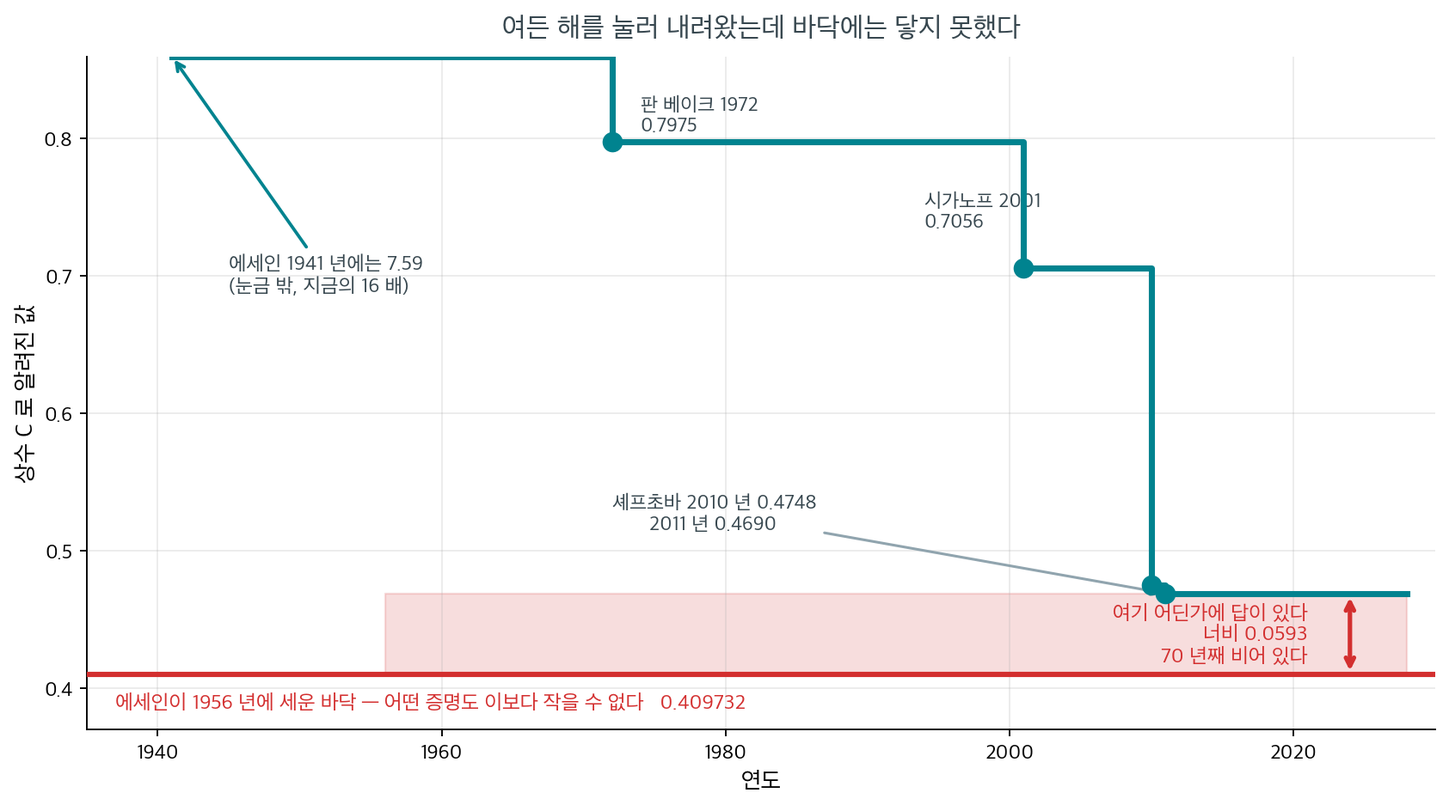
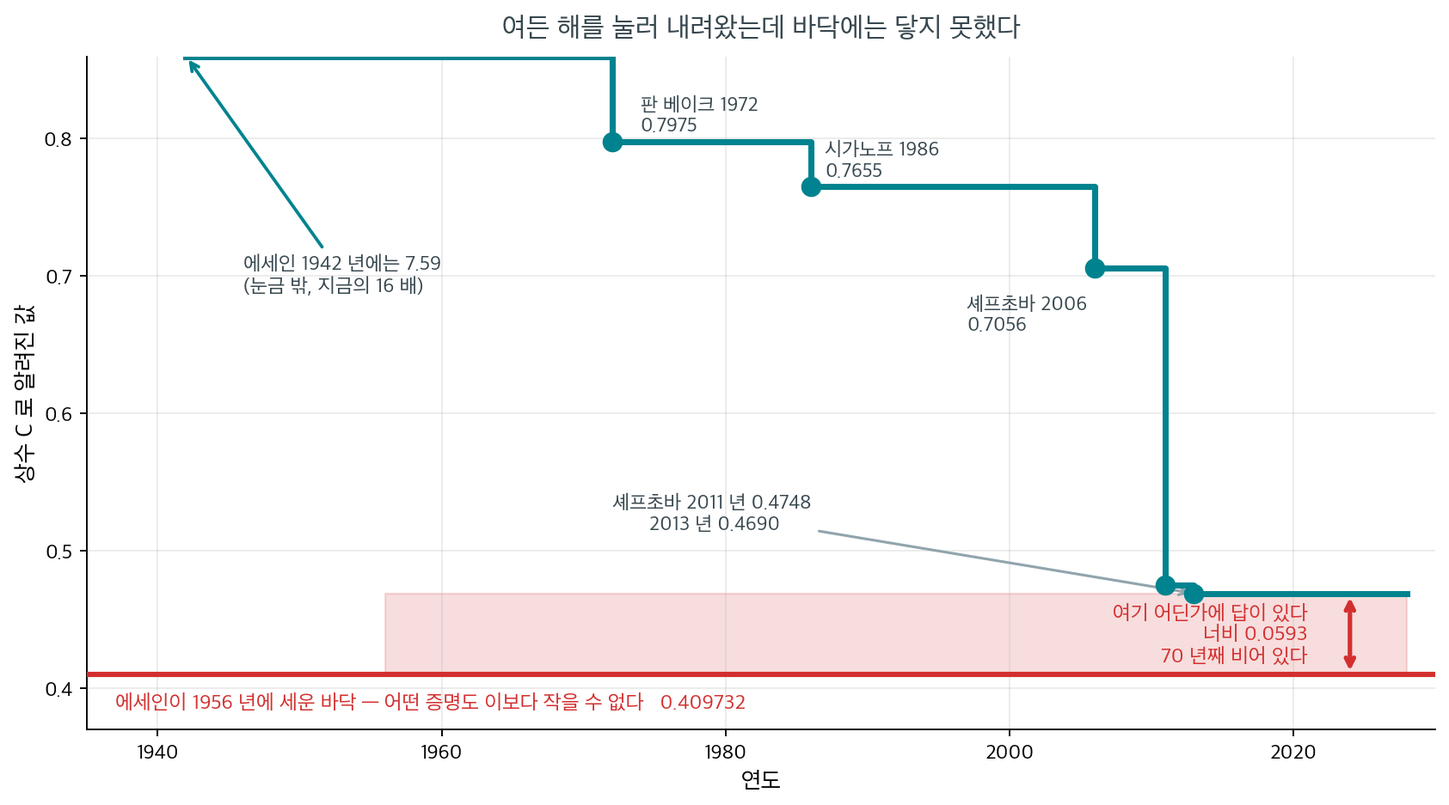
fix(ch03): 보고만 해 두었던 항목을 마무리한다
둘째 정독 패스가 고치지 않고 남긴 항목을 하나씩 판정해 끝냈다. 이미 닫힌 것과 보고가
틀린 것은 건드리지 않았고, 펜스를 고친 쪽은 실제로 돌린 출력을 붙여 verify_outputs 로
맞췄다. 그림을 다시 그린 것은 스크립트와 함께 담았다. 바깥 사실은 확인한 출처로만 고쳤다.

diff --git a/scripts/make_ch03_esseen_constant.py b/scripts/make_ch03_esseen_constant.py
@@ -6,9 +6,9 @@ r"""3.5절 「그림으로 보는 통계학」 — 닫히지 않는 틈.
 
 값은 이 책 본문(연습문제 9)의 표를 그대로 쓴다.
 
-  위에서 눌러 온 기록   1941 에세인 7.59 · 1972 판 베이크 0.7975
-                       2001 시가노프 0.7056 · 2010 셰프초바 0.4748
-                       2011 셰프초바 0.4690
+  위에서 눌러 온 기록   1942 에세인 7.59 · 1972 판 베이크 0.7975
+                       1986 시가노프 0.7655 · 2006 셰프초바 0.7056
+                       2011 셰프초바 0.4748 · 2013 셰프초바 0.4690
   아래에서 받친 바닥   1956 에세인 0.409732
 
 만드는 파일:
@@ -36,9 +36,9 @@ RED = "#D32F2F"
 TEAL = "#00838F"
 MUTED = "#90A4AE"
 
-UPPER = [(1941, 7.59, "에세인"), (1972, 0.7975, "판 베이크"),
-         (1901 + 100, 0.7056, "시가노프"), (2010, 0.4748, "셰프초바"),
-         (2011, 0.4690, "셰프초바")]
+UPPER = [(1942, 7.59, "에세인"), (1972, 0.7975, "판 베이크"),
+         (1986, 0.7655, "시가노프"), (2006, 0.7056, "셰프초바"),
+         (2011, 0.4748, "셰프초바"), (2013, 0.4690, "셰프초바")]
 LOWER = (np.sqrt(10) + 3) / (6 * np.sqrt(2 * np.pi))
 NOW = 2026
 
@@ -69,10 +69,12 @@ def main():
 
     ax.annotate("판 베이크 1972\n0.7975", xy=(1972, 0.7975),
                 xytext=(1974, 0.805), fontsize=9.8, color=INK)
-    ax.annotate("시가노프 2001\n0.7056", xy=(2001, 0.7056),
-                xytext=(1994, 0.735), fontsize=9.8, color=INK)
-    ax.annotate("셰프초바 2010 년 0.4748\n       2011 년 0.4690",
-                xy=(2011, 0.4690), xytext=(1972, 0.515),
+    ax.annotate("시가노프 1986\n0.7655", xy=(1986, 0.7655),
+                xytext=(1987, 0.772), fontsize=9.8, color=INK)
+    ax.annotate("셰프초바 2006\n0.7056", xy=(2006, 0.7056),
+                xytext=(1997, 0.66), fontsize=9.8, color=INK)
+    ax.annotate("셰프초바 2011 년 0.4748\n       2013 년 0.4690",
+                xy=(2013, 0.4690), xytext=(1972, 0.515),
                 fontsize=9.8, color=INK,
                 arrowprops=dict(arrowstyle="->", color=MUTED, lw=1.3))
 

diff --git a/docs/ch03/limits/berry_esseen.md b/docs/ch03/limits/berry_esseen.md
@@ -28,7 +28,7 @@ $$
 \sup_{x \in \mathbb{R}} \big|F_n(x) - \mathcal N(x)\big| \;\le\; \frac{C\,\rho}{\sigma^3 \sqrt n}
 $$
 
-이다. 여기서 $C$는 보편 상수다. 동일분포 가정 아래 알려진 가장 작은 값은 $C \le 0.4690$(셰프초바, 2011)이며, 이 페이지의 계산에는 널리 인용되는 $C = 0.4748$을 쓴다. 상수의 역사와 하한은 연습문제 9에 정리해 두었다.
+이다. 여기서 $C$는 보편 상수다. 동일분포 가정 아래 알려진 가장 작은 값은 $C \le 0.4690$(셰프초바, 2013)이며, 이 페이지의 계산에는 널리 인용되는 $C = 0.4748$을 쓴다. 상수의 역사와 하한은 연습문제 9에 정리해 두었다.
 
 </div>
 
@@ -84,12 +84,12 @@ $$
 **그 정리가 얼마나 좋아질 수 있는지의 한계까지** 손수 적어 둔 셈이다.
 
 <figure markdown>
-  ![1941년 7.59에서 시작해 1972년 0.7975, 2001년 0.7056, 2010년 0.4748, 2011년 0.4690으로 내려오는 계단 그림. 아래에 0.409732 선이 붉게 그어져 있고 그 사이 띠가 비어 있다](./img/esseen_constant_gap.png){ width=920 }
+  ![1942년 7.59에서 시작해 1972년 0.7975, 1986년 0.7655, 2006년 0.7056, 2011년 0.4748, 2013년 0.4690으로 내려오는 계단 그림. 아래에 0.409732 선이 붉게 그어져 있고 그 사이 띠가 비어 있다](./img/esseen_constant_gap.png){ width=920 }
   <figcaption markdown>위에서 눌러 내려온 기록(청록 계단)과 아래에서 받치는 바닥(붉은 선). 둘 사이 $0.0593$ 너비의 띠에 참값이 있는데, **$1956$ 년 이후 아무도 그 안으로 들어가지 못했다.** 값은 본문 연습문제 $9$ 의 표를 그대로 옮겨 그린 것이다.</figcaption>
 </figure>
 
 $0.4690$ 과 $0.409732$ 사이. 그 틈의 너비가 $0.06$ 이 채 되지 않는다. 지난 $70$ 년 동안
-여러 사람이 천장을 조금씩 끌어내렸지만 — $0.7975$, $0.7056$, $0.4748$, $0.4690$ —
+여러 사람이 천장을 조금씩 끌어내렸지만 — $0.7975$, $0.7655$, $0.7056$, $0.4748$, $0.4690$ —
 바닥에는 끝내 닿지 못했다.
 
 **이 이야기가 정리 1 을 읽는 법을 바꾼다.** 상한이 느슨해 보일 때, $C$ 를 모르는 데서
@@ -101,7 +101,7 @@ $n$ 을 얼마로 잡을지 정하는 데 쓰고, 실제 오차를 가늠하는 
 
 여든 해가 지나도록 수 하나를 못 박지 못한 채로, 이 부등식은 오늘도 쓰인다.
 
-*확인한 곳 — 상한의 역사와 하한은 이 쪽 연습문제 $9$ 에 정리해 둔 표를 그대로 따랐다 · 하한 $(\sqrt{10}+3)/(6\sqrt{2\pi}) = 0.409732\ldots$ 는 에세인($1956$)의 것이고, 틈의 너비 $0.4690 - 0.409732 = 0.0593$ 은 이 쪽에서 직접 셈했다*
+*확인한 곳 — 상한의 역사(에세인 $1942$ 의 $7.59$ · 판 베이크 $1972$ · 시가노프 $1986$ · 셰프초바 $2006$·$2011$·$2013$)는 위키백과 「Berry–Esseen theorem」과 optimizationproblems 목록(teorth.github.io)의 「The Berry–Esseen constant」(Shevtsova 2013, *Informatika i Ee Primeneniya*)으로 맞추었고, 연습문제 $9$ 의 표도 그것을 따른다 · 하한 $(\sqrt{10}+3)/(6\sqrt{2\pi}) = 0.409732\ldots$ 는 에세인($1956$)의 것이고, 틈의 너비 $0.4690 - 0.409732 = 0.0593$ 은 이 쪽에서 직접 셈했다*
 
 </div>
 
@@ -238,10 +238,10 @@ $\rho/\sigma^3$은 왜도(skewness)의 사촌이다. 왜도가 $E[(X-\mu)^3]/\si
     이다. 이 함수와 표준정규 누적분포함수 $\Phi$(정리 1 의 $\mathcal N$ 과 같은 것이다)의 차를 $x$에 대해 최대화하면 되고, 그 최댓값이 어디쯤일지는 **에지워스 전개**가 알려 준다. 첫 보정항까지 쓰면
 
     $$
-    F_n(x) \approx \Phi(x) - \frac{\gamma}{6\sqrt n}\,(x^2 - 1)\,\varphi(x)
+    F_n(x) \approx \Phi(x) - \frac{\gamma}{6\sqrt n}\,(x^2 - 1)\,\phi(x)
     $$
 
-    이다. 여기서 $\varphi$ 는 표준정규분포의 밀도함수이고(증명 개요의 특성함수와 글자만 같다) $\gamma$ 는 모집단의 왜도로, $\text{Exp}(1)$에서는 $\gamma = 2$다. $|(x^2-1)\varphi(x)|$는 $x = 0$에서 $\varphi(0) = 0.398942$로 최대다($x = \pm\sqrt3$에서는 $2\varphi(\sqrt3) = 0.178$에 지나지 않는다). 따라서
+    이다. 여기서 $\phi$ 는 표준정규분포의 밀도함수이고(증명 개요의 특성함수 $\varphi$ 와는 다른 글자다) $\gamma$ 는 모집단의 왜도로, $\text{Exp}(1)$에서는 $\gamma = 2$다. $|(x^2-1)\phi(x)|$는 $x = 0$에서 $\phi(0) = 0.398942$로 최대다($x = \pm\sqrt3$에서는 $2\phi(\sqrt3) = 0.178$에 지나지 않는다). 따라서
 
     $$
     \sup_x |F_n(x) - \Phi(x)| \approx \frac{2}{6}\cdot\frac{0.398942}{\sqrt n} = \frac{0.132981}{\sqrt n}
@@ -733,6 +733,8 @@ $\mu = 1$, $\sigma = 1$, $\rho = E[|X-1|^3] = 12e^{-1} - 2 \approx 2.4146$인 Ex
     | $100$ | $0.0398$ | $0.000273$ | $146$배 |
     | $10\,000$ | $0.00399$ | $0.0000027$ | $1469$배 |
 
+    마지막 행의 $0.0000027$ 은 출력이 여섯째 자리에서 반올림해 $0.000003$ 으로 찍은 값을 개선 배수 $1469.2$ 로 되짚은 것이다($0.003989/1469.2$).
+
     보정 없이는 $O(n^{-1/2})$인데, **보정 후에는 $O(n^{-1})$이다**($n$이 $1000$배 늘 때 오차가 $1000$배 줄었다). 개선 배수가 $\sqrt n$에 비례해 커지는 것이 그 증거다.
 
     **치우친 경우는 다르다.** $p=0.1$에서 개선이 **$4.8$배로 고정**된다. 차수는 여전히 $O(n^{-1/2})$다.
@@ -829,11 +831,12 @@ $\mu = 1$, $\sigma = 1$, $\rho = E[|X-1|^3] = 12e^{-1} - 2 \approx 2.4146$인 Ex
 
     | 연도 | 저자 | $C$ |
     |---|---|---|
-    | $1941$ | 에세인 | $7.59$ |
+    | $1942$ | 에세인 | $7.59$ |
     | $1972$ | 판 베이크 | $0.7975$ |
-    | $2001$ | 시가노프 | $0.7056$ |
-    | $2010$ | 셰프초바 | $0.4748$ |
-    | $2011$ | 셰프초바 | $0.4690$ |
+    | $1986$ | 시가노프 | $0.7655$ |
+    | $2006$ | 셰프초바 | $0.7056$ |
+    | $2011$ | 셰프초바 | $0.4748$ |
+    | $2013$ | 셰프초바 | $0.4690$ |
 
     **하한.** 에세인(1956)이 $C$를 아래로도 가둘 수 있음을 보였다.
 

diff --git a/docs/ch03/probability/axioms.md b/docs/ch03/probability/axioms.md
@@ -374,7 +374,7 @@ $$
 
 이 곱을 전개하면 교대합이 저절로 나온다 — $(1-x_1)(1-x_2)\cdots(1-x_n)$ 을 펼친 것이 곧 포함배제의 우변이고, 한 원소가 조건 $m$ 개에 걸리면 그 자리에서 $(1-1)^m=0$ 이 되어 사라진다. 정리 1 의 증명이 부호를 번갈아 붙인 까닭을 한 줄로 적은 셈이다.
 
-그런데 그는 **같은 해에 병으로 휴직**했고, 책의 뒷장들을 끝내 손보지 못한 채 $1868$ 년 퇴직했다. 글은 포르투갈어로 리스본에서만 나왔으므로 아무도 읽지 않았고, $1883$ 년 실베스터가 같은 식을 다시 내놓을 때도 그 책을 몰랐다. 반세기가 지나 이탈리아의 알라지아가 **거의 우연히** 그 논문을 발견해 $1903$ 년부터 세 편의 글로 알린 뒤에야 다 실바의 차례가 첫째였다는 것이 알려졌다.
+그런데 그는 **발표한 그해 $1852$ 년 말에 병으로 휴직**했고, 책의 뒷장들을 끝내 손보지 못한 채 $1868$ 년 퇴직했다. 글은 포르투갈어로 리스본에서만 나왔으므로 아무도 읽지 않았고, $1883$ 년 실베스터가 같은 식을 다시 내놓을 때도 그 책을 몰랐다. 반세기가 지나 이탈리아의 알라지아가 **거의 우연히** 그 논문을 발견해 $1903$ 년부터 세 편의 글로 알린 뒤에야 다 실바의 차례가 첫째였다는 것이 알려졌다.
 
 이름이 늦게 돌아온 일은 흔하다. 다만 여기서는 **적은 꼴까지 그가 더 앞서 있었다** — 조건을 떼어 내는 일을 곱으로 적는 생각은, 오늘날 포함배제를 가장 짧게 증명하는 방법 그대로다.
 
@@ -874,7 +874,7 @@ $$
     **왜 이것이 중요한가.**
 
     - **큰수의 강법칙 증명의 핵심 도구다.** "거의 확실한 수렴"을 다루려면 무한히 많은 사건의 극한을 확률로 계산해야 하는데, 그것이 정확히 측도의 연속성이 하는 일이다.
-    - **유한 가법성만으로는 불가능하다.** 연습문제 7의 답이 여기서 구체화된다. $\{A_n \text{ i.o.}\}$는 가산 무한 번의 합집합과 교집합으로 만들어지므로, 가산가법성이 없으면 이 사건에 확률을 부여할 수조차 없다.
+    - **유한 가법성만으로는 불가능하다.** 연습문제 7의 답이 여기서 구체화된다. $\{A_n \text{ i.o.}\}$는 가산 무한 번의 합집합과 교집합으로 만들어지므로, 가산가법성이 없으면 이 사건의 확률을 $P(A_n)$ 들로부터 계산할 길이 없다.
     - **두 보조정리의 비대칭.** 제$1$은 독립을 요구하지 않지만 제$2$는 요구한다. 독립이 없으면 $\sum P(A_n) = \infty$여도 $P(A_n \text{ i.o.})$가 $1$보다 작을 수 있고(모든 $A_n$이 확률 $\tfrac12$인 같은 사건이면 $\tfrac12$), $0$일 수도 있다($[0,1]$의 균등분포에서 $A_n = (0, 1/n)$이면 $\sum 1/n = \infty$인데, 점 $x > 0$은 $n < 1/x$인 유한개의 $A_n$에만 속하므로 $\{A_n \text{ i.o.}\} = \emptyset$이다). $\square$
 
 ---
@@ -1031,7 +1031,7 @@ $$
 
     $\mathcal{F}$가 만족해야 할 조건은 공리 자체가 요구하는 것들이다. 여집합 규칙을 쓰려면 $A \in \mathcal{F} \Rightarrow A^c \in \mathcal{F}$여야 하고, 가산가법성을 쓰려면 가산 합집합에 대해 닫혀 있어야 한다. **$\sigma$-대수의 정의가 곧 "공리를 적용할 수 있는 집합족"의 정의다.**
 
-    **실무에서 걱정할 일은 거의 없다.** 실수 위에서는 **보렐 $\sigma$-대수**(구간들로부터 생성되는 최소 $\sigma$-대수)를 쓰는데, 여기에는 상상할 수 있는 거의 모든 집합이 들어 있다. 비탈리 집합처럼 선택공리로만 만들어지는 병리적 집합만 빠진다.
+    **실무에서 걱정할 일은 거의 없다.** 실수 위에서는 **보렐 $\sigma$-대수**(구간들로부터 생성되는 최소 $\sigma$-대수)를 쓰는데, 여기에는 상상할 수 있는 거의 모든 집합이 들어 있다. 빠지는 것은 일부러 지어내야 만들어지는 집합들이고, 측도를 아예 줄 수 없는 비탈리 집합이 그 극단이다.
 
     **그럼에도 $\mathcal{F}$가 중요한 이유가 따로 있다.** 확률변수의 정의(가측함수), 조건부기댓값, 여과(filtration)와 마팅게일 이론이 모두 "**어느 시점에 어떤 정보를 알고 있는가**"를 $\sigma$-대수로 표현한다. $\mathcal{F}$는 병리적 집합을 막는 장치이기 전에 **정보를 형식화하는 언어**다. $\square$
 
@@ -1047,4 +1047,4 @@ $$
 
 공리가 이렇게 인색한 데는 이유가 있다. 규칙이 적을수록 그것을 만족하는 대상이 많아지고, 따라서 결론이 널리 적용된다. 주사위든 주가든 내일의 날씨든, 세 줄만 지키면 이 책의 나머지 전부가 그대로 적용된다.
 
-이제 규칙은 갖췄다. 다음 절부터는 이 규칙 위에서 실제로 계산을 시작한다. 첫 번째 도구는 **조건부확률**(conditional probability) — 무언가를 알게 되었을 때 확률이 어떻게 달라지는가이다.
+이제 규칙은 갖췄다. 다음 절부터는 이 규칙 위에서 실제로 계산을 시작한다. 첫 번째 도구는 **[조건부확률](conditional.md)**(conditional probability) — 무언가를 알게 되었을 때 확률이 어떻게 달라지는가이다.

diff --git a/docs/ch03/probability/independence.md b/docs/ch03/probability/independence.md
@@ -64,7 +64,7 @@ $$
 
     이므로 두 조건이 동등하다. 곱 형태는 $P(B) = 0$일 때도 양변이 모두 $0$이 되어 자동으로 성립하므로, $P(B) > 0$이라는 단서 없이 쓸 수 있다. 이 때문에 곱 형태를 정의로 채택한다. $\square$
 
-곱 형태에는 세 가지 이점이 있다. **대칭적이고**($A$와 $B$의 역할이 같다), **$P(B) = 0$일 때도 쓸 수 있으며**, 무엇보다 **계산이 곱셈이 된다**. $n$개의 독립인 사건이 모두 일어날 확률은 $n$개의 수를 곱하면 끝이다.
+곱 형태에는 세 가지 이점이 있다. **대칭적이고**($A$와 $B$의 역할이 같다), **$P(B) = 0$일 때도 쓸 수 있으며**, 무엇보다 **계산이 곱셈이 된다**. $n$개의 사건이 서로 독립이면(뒤의 정의 2) 모두 일어날 확률은 $n$개의 수를 곱하면 끝이다.
 
 이 마지막 점이 왜 중요한지는 곧 드러난다. 큰수의 법칙도 중심극한정리(central limit theorem)도 "독립인 관측을 $n$개 모으면"이라는 전제 위에 서 있다.
 
@@ -219,8 +219,8 @@ _확인한 곳 — 사진의 쪽 번호 $19$ 와 $22$, 첫째 실험의 설정, 
 
 **AI로 보는 통계학 1.** 장치를 늘릴수록 더 자주 멈추는 까닭
 
-정의 1 의 곱 $P(A_1\cap\cdots\cap A_n)=\prod P(A_i)$ — 정의 2 가 모든 부분집합으로 넓힌 그
-식 — 은 **모두 살아 있어야 할 때**의 확률이다. 큰 모형을 여러 장치에 나누어 학습시키는
+정의 1 의 곱을 $n$ 개로 넓힌 $P(A_1\cap\cdots\cap A_n)=\prod P(A_i)$ — 뒤의 정의 2 가 모든
+부분집합에 요구하는 그 식 — 은 **모두 살아 있어야 할 때**의 확률이다. 큰 모형을 여러 장치에 나누어 학습시키는
 일이 바로 그 꼴이다 — 한 걸음을 끝내려면 참여한 장치가 **하나도 빠짐없이** 제 몫을
 끝내야 하므로, 그룹 전체는 **직렬 연결**이다.
 
@@ -228,7 +228,7 @@ _확인한 곳 — 사진의 쪽 번호 $19$ 와 $22$, 첫째 실험의 설정, 
 
 ```python
 def series(q, n):
-    """직렬 — n 대가 모두 멀쩡할 확률. 정의 1 의 곱 규칙."""
+    """직렬 — n 대가 모두 멀쩡할 확률. 곱 규칙을 n 개로 넓힌 것."""
     return q ** n
 
 def parallel(q, k):
@@ -474,7 +474,7 @@ _확인한 곳 — 사진의 쪽 번호 $89$, 러닝헤드, 절 제목 「$5.2.8
 
     **맞는다.** 차이가 $+0.000028$로 표준오차의 $0.05$배다. 곱 규칙이 20만 번의 자료가 가려낼 수 있는 한계 안에서 성립한다.
 
-    **다만 넷째 자리까지 같게 나온 것은 운이 좋았던 것이다.** 차이의 표준오차가 $0.00056$이므로 넷째 자리 한 단위($0.0001$)의 다섯 배가 넘고, 보통은 $0.2505$ 대 $0.2499$처럼 넷째 자리에서 갈린다. 실제로 씨앗만 바꿔 같은 모의실험을 돌리면 차이가 $-0.00036$, $+0.00044$, $+0.00079$처럼 나온다. **"소수 몇째 자리까지 같다"는 것은 독립의 증거가 아니고, 몇째 자리까지 같아야 하는지를 정해 주는 것이 (1)의 표준오차다.**
+    **다만 넷째 자리까지 같게 나온 것은 운이 좋았던 것이다.** 차이의 표준오차가 $0.00056$이므로 넷째 자리 한 단위($0.0001$)의 다섯 배가 넘고, 보통은 $0.2505$ 대 $0.2499$처럼 넷째 자리에서 갈린다. 실제로 씨앗만 바꿔 같은 모의실험을 돌리면 차이가 $-0.00036$, $+0.00044$, $+0.00079$처럼 나온다(`np.random.seed` 를 $1$, $3$, $7$ 로 바꾼 값이다). **"소수 몇째 자리까지 같다"는 것은 독립의 증거가 아니고, 몇째 자리까지 같아야 하는지를 정해 주는 것이 (1)의 표준오차다.**
 
     두 변의 추정값이 각각 $0.4996$과 $0.5013$으로 $0.5$에서 $-0.4$, $+1.2$ 표준오차만큼 비껴나 있는 것도 같은 이야기다. 모의실험은 참값을 보여 주지 않고 참값 둘레의 난수를 보여 준다.
 
@@ -840,7 +840,7 @@ _확인한 곳 — 사진의 쪽 번호 $89$, 러닝헤드, 절 제목 「$5.2.8
     - **금융 위기의 구조.** 개별 대출의 부도 확률이 낮아도 상관되어 있으면 포트폴리오 손실이 폭발한다. $2008$년 이전의 모형들이 **부도 상관을 낮게 잡은 것**이 핵심 실패였다.
     - **역학과 전파.** 개인의 감염 확률을 곱해 집단 확률을 구하면 크게 빗나간다. 접촉 구조가 독립을 깨뜨린다.
 
-    **일반 원리.** 독립 가정은 계산을 극적으로 단순하게 만들지만(정의 1 의 곱 규칙 하나로 $n$개의 수만 곱하면 끝난다), **틀렸을 때의 오차가 꼬리에서 가장 크다.** 평균적인 결과는 비슷해도 "모두 함께 잘못될 확률"은 몇 자릿수씩 어긋난다. 그리고 위험관리에서 중요한 것은 정확히 그 꼬리다. $\square$
+    **일반 원리.** 독립 가정은 계산을 극적으로 단순하게 만들지만(정의 2 의 곱 규칙 하나로 $n$개의 수만 곱하면 끝난다), **틀렸을 때의 오차가 꼬리에서 가장 크다.** 평균적인 결과는 비슷해도 "모두 함께 잘못될 확률"은 몇 자릿수씩 어긋난다. 그리고 위험관리에서 중요한 것은 정확히 그 꼬리다. $\square$
 
 ---
 

diff --git a/docs/ch03/rv/joint.md b/docs/ch03/rv/joint.md
@@ -138,7 +138,7 @@ $$
 
 정리 1 이 결합분포에서 한 변수만의 분포를 뽑아낸 것을 **주변분포**라 부른다. 이 이름은 비유가 아니다. 두 항목으로 표를 짜고 행 끝과 열 끝, 곧 표의 **가장자리**에 합을 적어 넣던 자리에서 그대로 온 말이다.
 
-그 가장자리를 전기로 세기 시작한 것이 사진의 기계다. $1880$ 년 미국 인구조사는 집계에만 팔 년이 걸렸다. 열 해마다 해야 하는 일인데 팔 년이 걸렸으니 곧 따라잡힐 참이었다. 홀러리스는 차장이 기차표에 구멍을 뚫어 승객의 성별과 나이를 적어 두는 것을 보고 카드를 떠올렸다. 사람마다 카드 한 장을 두고 항목마다 자리를 정해 구멍을 뚫는다. 카드를 수은 웅덩이 위에 올려놓고 철사를 누르면 **구멍이 뚫린 자리에서만** 전기가 통하고, 그 회로에 붙은 계수기의 바늘이 한 칸 돈다. $1890$ 년에는 카드 한 억 장을 네 번만 통과시켜 집계를 끝냈다.
+그 가장자리를 전기로 세기 시작한 것이 사진의 기계다. $1880$ 년 미국 인구조사는 집계에만 팔 년이 걸렸다. 열 해마다 해야 하는 일인데 팔 년이 걸렸으니 곧 따라잡힐 참이었다. 홀러리스는 차장이 기차표에 구멍을 뚫어 승객의 성별과 나이를 적어 두는 것을 보고 카드를 떠올렸다. 사람마다 카드 한 장을 두고 항목마다 자리를 정해 구멍을 뚫는다. 카드를 수은 웅덩이 위에 올려놓고 철사를 누르면 **구멍이 뚫린 자리에서만** 전기가 통하고, 그 회로에 붙은 계수기의 바늘이 한 칸 돈다. $1890$ 년에는 카드 약 $1$ 억 장을 네 번만 통과시켜 집계를 끝냈다.
 
 여기서부터가 정의 1 과 정리 1 의 이야기다. 계수기 하나를 **구멍 하나**에 연결하면 그 항목 하나의 도수가 쌓인다 — 주변분포다. 계수기를 **구멍의 조합**에 연결하면(이를테면 「기혼」 구멍과 「여성」 구멍이 함께 뚫린 카드) 정의 1 의 결합분포에서 한 칸이 된다. 그리고 기계가 가진 계수기는 마흔 개뿐이었다.
 
@@ -148,7 +148,7 @@ $$
 
 통계기계가 이 물음과 함께 태어났다는 것도 적어 둘 만하다. 홀러리스가 세운 회사가 뒷날 합병을 거쳐 IBM 이 된다. **무엇을 셀 것인가를 미리 정해야 한다**는 제약은 계수기가 마흔 개이던 시절의 것이지만, 어느 조합을 기록해 두고 어느 조합을 버릴지 고르는 일은 지금도 자료를 모으는 사람의 첫 결정이다.
 
-_확인한 곳 — 판화의 「ELECTRICAL COUNTING MACHINES」, 잡지 이름, 계수기 눈금판과 카드 더미는 **그림에서 직접 읽었다**([Commons 파일 쪽](https://commons.wikimedia.org/wiki/File:1890_Census_Hollerith_Electrical_Counting_Machines_Sci_Amer.jpg) — 『사이언티픽 아메리칸』 $1890$ 년 $8$ 월 $30$ 일자) · $1880$ 년 조사가 팔 년 걸린 것, 기차표에서 얻은 착상, 수은 웅덩이와 철사로 회로를 닫는 방식, **계수기 마흔 개**와 「계수기를 구멍 하나에 붙이거나 relay 로 구멍의 조합에 붙일 수 있었다」, 카드 한 억 장을 네 번 통과시킨 것, 그리고 그의 회사가 뒷날 IBM 이 되었다는 것은 [Wikipedia 「Tabulating machine」](https://en.wikipedia.org/wiki/Tabulating_machine) · $a+b$ 와 $ab$ 의 비교는 **이 쪽에서 직접 꾸몄다**_
+_확인한 곳 — 판화의 「ELECTRICAL COUNTING MACHINES」, 잡지 이름, 계수기 눈금판과 카드 더미는 **그림에서 직접 읽었다**([Commons 파일 쪽](https://commons.wikimedia.org/wiki/File:1890_Census_Hollerith_Electrical_Counting_Machines_Sci_Amer.jpg) — 『사이언티픽 아메리칸』 $1890$ 년 $8$ 월 $30$ 일자) · $1880$ 년 조사가 팔 년 걸린 것, 기차표에서 얻은 착상, 수은 웅덩이와 철사로 회로를 닫는 방식, **계수기 마흔 개**와 「계수기를 구멍 하나에 붙이거나 relay 로 구멍의 조합에 붙일 수 있었다」, 카드 약 $1$ 억 장(「Some 100 million cards」)을 네 번 통과시킨 것, 그리고 그의 회사가 뒷날 IBM 이 되었다는 것은 [Wikipedia 「Tabulating machine」](https://en.wikipedia.org/wiki/Tabulating_machine) · $a+b$ 와 $ab$ 의 비교는 **이 쪽에서 직접 꾸몄다**_
 
 </div>
 

diff --git a/docs/ch03/probability/bayes.md b/docs/ch03/probability/bayes.md
@@ -81,9 +81,9 @@ $$
 
 정리 1 의 증명이 맨 먼저 쓰는 그 식이다.
 
-여기까지가 이 글에 적힌 전부라는 점도 알아 둘 만하다. 분자를 $P(A)P(B\mid A)$ 로 바꾸는 한 걸음은 두 쪽 앞 명제 3 의 따름정리에 따로 적혀 있고, 원인이 여럿일 때 분모를 $\sum P(A_i)P(B\mid A_i)$ 로 펼친 정리 2 의 꼴은 없다. 그 꼴은 열한 해 뒤 **라플라스**가 「사건으로부터 원인의 확률에 관하여」($1774$)에서 원인이 $n$ 개인 경우로 적은 것이고, 사전확률을 곱해 주는 마지막 손질은 다시 그 뒤의 일이다. 베이즈의 몫은 식이 아니라 **방향을 뒤집어도 좋다**는 것을 보인 데 있다.
+여기까지가 이 글에 적힌 전부라는 점도 알아 둘 만하다. 분자를 $P(A)P(B\mid A)$ 로 바꾸는 한 걸음은 두 쪽 앞 명제 3(두 사건이 함께 일어날 확률은 첫째의 확률과 첫째가 일어났을 때 둘째의 확률을 곱한 것이다)에 따로 적혀 있고, 원인이 여럿일 때 분모를 $\sum P(A_i)P(B\mid A_i)$ 로 펼친 정리 2 의 꼴은 없다. 그 꼴은 열한 해 뒤 **라플라스**가 「사건으로부터 원인의 확률에 관하여」($1774$)에서 원인이 $n$ 개인 경우로 적은 것이고, 사전확률을 곱해 주는 마지막 손질은 다시 그 뒤의 일이다. 베이즈의 몫은 식이 아니라 **방향을 뒤집어도 좋다**는 것을 보인 데 있다.
 
-*확인한 곳 — [Wikipedia 「An Essay Towards Solving a Problem in the Doctrine of Chances」](https://en.wikipedia.org/wiki/An_Essay_Towards_Solving_a_Problem_in_the_Doctrine_of_Chances) · [원문 PDF](https://bayes.wustl.edu/Manual/an.essay.pdf) — 명제 5 의 $b/N$, $P/N$, $P/b$ 가 그대로 적혀 있다*
+*확인한 곳 — [Wikipedia 「An Essay Towards Solving a Problem in the Doctrine of Chances」](https://en.wikipedia.org/wiki/An_Essay_Towards_Solving_a_Problem_in_the_Doctrine_of_Chances) · [원문 PDF](https://bayes.wustl.edu/Manual/an.essay.pdf) — 명제 5 의 $b/N$, $P/N$, $P/b$ 와 명제 3 의 곱셈 규칙이 그대로 적혀 있다*
 
 </div>
 
@@ -653,7 +653,7 @@ _확인한 곳 — [Wikipedia 「Hartley (unit)」](https://en.wikipedia.org/wik
     ```python
     import numpy as np
 
-    p0, p1 = 0.5, 0.7                                # 공정한 동전 vs 치우친 동전
+    p0, p1 = 0.5, 0.7                                # 공정한 동전 vs 편향된 동전
 
     def log_bf(k, n):
         return k * np.log(p1 / p0) + (n - k) * np.log((1 - p1) / (1 - p0))
@@ -833,7 +833,7 @@ _확인한 곳 — [Wikipedia 「Hartley (unit)」](https://en.wikipedia.org/wik
 
     **현실에서는 대개 독립이 아니다.** 거짓양성의 원인이 그 사람의 생리적 특성이라면($1$차에서 거짓양성이던 사람은 $2$차에서도 거짓양성이기 쉽다), 조건부 특이도가 훨씬 낮아진다. 표에서 보듯 조건부 특이도가 $0.5$면 사후확률이 $0.038$에 그쳐 **재검사가 거의 아무 정보도 주지 않는다.**
 
-    **그래서 실무에서는 다른 원리의 검사를 쓴다.** HIV 검사에서 스크리닝은 항체 기반, 확진은 핵산 기반으로 하는 것이 그 이유다. **같은 검사를 반복하는 것보다 독립적인 오류 구조를 가진 검사를 쓰는 것이 훨씬 낫다.**
+    **그래서 실무에서는 다른 원리의 검사를 쓴다.** HIV 검사에서 항원·항체 면역분석으로 선별한 뒤 양성을 다른 방식의 검사(HIV-1/HIV-2 항체 감별 검사, 결과가 엇갈리면 핵산 검사)로 확인하는 것이 그 이유다. **같은 검사를 반복하는 것보다 독립적인 오류 구조를 가진 검사를 쓰는 것이 훨씬 낫다.**
 
     **PPV와 NPV의 비대칭도 눈여겨보라.** PPV(양성예측도)는 양성일 때 실제로 병이 있을 확률 $P(D \mid +)$, NPV(음성예측도)는 음성일 때 실제로 병이 없을 확률 $P(D^c \mid -)$ 다. 유병률 $0.001$에서 PPV는 $0.019$로 형편없지만 NPV는 $0.99999$로 거의 완벽하다. **희귀질환 검사에서 음성 결과는 매우 믿을 만하고 양성 결과는 그렇지 않다.** 스크리닝 검사의 목적이 "배제"인 이유가 여기 있다. $\square$
 

diff --git a/docs/ch03/rv/continuous.md b/docs/ch03/rv/continuous.md
@@ -78,7 +78,7 @@ Z = np.trapz(np.exp(-score(xs)), xs)        # 정의 1 의 성질 (2) 가 요구
 print(f"1 차원에서의 상수 Z = {Z:.6f}")
 print(f"같은 촘촘함의 격자를 10 차원에 깔면 점이 {201**10:.3e} 개 — 더할 수 없다")
 
-print(f"그런데 두 점의 확률의 비에는 Z 가 없다:  f(0.5)/f(1.5) = "
+print(f"그런데 두 점의 밀도의 비에는 Z 가 없다:  f(0.5)/f(1.5) = "
       f"{np.exp(-(score(0.5) - score(1.5))):.6f}")
 
 rng = np.random.default_rng(0)                  # 비만 써서 표본을 모은다
@@ -101,7 +101,7 @@ for a, b in [(-2.0, -1.0), (-1.0, 0.0), (0.0, 1.0), (1.0, 2.0)]:
 ```text
 1 차원에서의 상수 Z = 2.719881
 같은 촘촘함의 격자를 10 차원에 깔면 점이 1.076e+23 개 — 더할 수 없다
-그런데 두 점의 확률의 비에는 Z 가 없다:  f(0.5)/f(1.5) = 2.295797
+그런데 두 점의 밀도의 비에는 Z 가 없다:  f(0.5)/f(1.5) = 2.295797
 구간         표본의 비율    참값(상수를 아는 경우)
 [-2.0, -1.0)      0.1700           0.1701
 [-1.0,  0.0)      0.3136           0.3136
@@ -354,7 +354,7 @@ il faut et il suffit que l'ensemble de ses points de discontinuité soit de mesu
     # ppf(0.1)은 "아래쪽 10%의 경계"를 돌려준다. CDF의 역함수다.
     # 즉 P(X <= max_wait) = 0.1 이 되는 지점이다.
     max_wait = stats.norm(loc=mu, scale=sigma).ppf(0.1)
-    print(f"Maximum average wait time: {max_wait:.2f} seconds")
+    print(f"Maximum wait time: {max_wait:.2f} seconds")
 
     # 시각화: 평균에서 좌우 3 표준편차 구간을 그린다
     x = np.linspace(mu - 3*sigma, mu + 3*sigma, 200)
@@ -377,7 +377,7 @@ il faut et il suffit que l'ensemble de ses points de discontinuité soit de mesu
     출력:
 
     ```
-    Maximum average wait time: 170.90 seconds
+    Maximum wait time: 170.90 seconds
     ```
 
 ![연속확률변수](./img/continuous_72.png)
@@ -674,7 +674,7 @@ $0 \le x \le 2$에서 $f(x) = c x^2$이고 그 밖에서는 0이다. (a) $c$를 
 
     **첫째, 밀도가 $y \to 0^+$에서 발산한다.** $1/\sqrt{y}$ 항 때문이다. **밀도는 $1$을 넘을 수 있고 무한대로 갈 수도 있다.** 확률이 아니라 밀도이기 때문이며, 적분만 유한하면 된다.
 
-    **둘째, 이 변환이 카이제곱분포의 정의다.** 표준정규의 제곱합(sum of squares)이 카이제곱이고, 그것이 표본분산(sample variance)의 분포로 이어진다(부록 A 선형대수 문서에서 본 이차형식). **변환 공식 하나가 통계 이론 전체의 출발점**인 셈이다.
+    **둘째, 이 변환이 카이제곱분포의 정의다.** 표준정규의 제곱합(sum of squares)이 카이제곱이고, 그것이 표본분산(sample variance)의 분포로 이어진다(그 이차형식의 이야기는 부록 A.4절 [카이제곱분포와 이차형식](../../ch00/linalg_regression/linalg_statistics/chi_squared_quadratic.md)에 있다). **변환 공식 하나가 통계 이론 전체의 출발점**인 셈이다.
 
     **주의할 경우.**
 
@@ -841,7 +841,7 @@ $0 \le x \le 2$에서 $f(x) = c x^2$이고 그 밖에서는 0이다. (a) $c$를 
 
     **둘째 줄이 특히 중요하다.** 3장 뒤에서 볼 중심극한정리는 **유한 분산**을 요구한다. 그것이 없으면 표본평균이 정규가 아니라 **안정분포**로 수렴하며, 표준적인 추론이 모두 무효가 된다.
 
-    **어디서 마주치는가.** 소득, 도시 인구, 지진 규모, 보험 대형 손실, 금융 수익률의 꼬리가 $\alpha = 1.5$–$3$ 범위로 추정되는 경우가 많다. **$\alpha < 2$이면 "평균 손실"을 논하는 것 자체가 위험하다.**
+    **어디서 마주치는가.** 소득, 도시 인구, 보험 대형 손실, 금융 수익률의 꼬리가 $\alpha = 1.5$–$3$ 범위로 추정되는 경우가 많다. **$\alpha < 2$이면 "평균 손실"을 논하는 것 자체가 위험하다.**
 
     **진단.** 표본평균을 $n$에 따라 그려 보아 안정되지 않으면 적률의 존재를 의심해야 한다. 2.3절 [왜도와 첨도](../../ch02/shape/skewness_kurtosis.md) 연습문제 8의 로버스트 측도가 이런 상황을 위한 것이다. $\square$
 

diff --git a/docs/ch03/rv/pmf_pdf_cdf.md b/docs/ch03/rv/pmf_pdf_cdf.md
@@ -743,7 +743,7 @@ $$
 
     읽어도 되는 것은 **두 곡선 각각의 모양**이다. 히스토그램에서는 중심이 어디쯤이고 꼬리가 어느 쪽으로 긴지를, 계단에서는 누적이 어디서 빨리 오르는지를 본다. 그리고 보기 1 에서 본 관계 — 히스토그램이 높은 곳에서 계단이 가파르다 — 가 눈으로 확인된다.
 
-    읽으면 안 되는 것은 **두 곡선의 높이를 서로 견주는 일**이다. 히스토그램 막대가 $0.56$ 이고 계단이 그 자리에서 $0.5$ 라고 해서 둘이 비슷한 양이라는 뜻이 전혀 아니다. 막대 높이는 구간 폭 $0.267$ 을 곱해야 확률이 되므로 그 칸의 확률은 $0.56 \times 0.267 = 0.15$ 다. 또 하나, 히스토그램의 최고 높이 $0.5618$ 이 이론 최댓값 $\varphi(0) = 0.3989$ 보다 크다고 놀랄 일이 아니다. **$200$ 개를 $20$ 칸에 나누면 칸마다 평균 $10$ 개뿐이라 높이가 크게 튄다.**
+    읽으면 안 되는 것은 **두 곡선의 높이를 서로 견주는 일**이다. 히스토그램 막대가 $0.56$ 이고 계단이 그 칸의 왼쪽 반에서 $0.51$ 이라고 해서 둘이 비슷한 양이라는 뜻이 전혀 아니다. 막대 높이는 구간 폭 $0.267$ 을 곱해야 확률이 되므로 그 칸의 확률은 $0.56 \times 0.267 = 0.15$ 다. 또 하나, 히스토그램의 최고 높이 $0.5618$ 이 이론 최댓값 $\varphi(0) = 0.3989$ 보다 크다고 놀랄 일이 아니다. **$200$ 개를 $20$ 칸에 나누면 칸마다 평균 $10$ 개뿐이라 높이가 크게 튄다.**
 
     **(2) 계단을 그리는 방식 때문이다.** `np.cumsum(counts) / np.sum(counts)` 가 주는 $i$ 번째 값은 "$i$ 번째 구간의 **오른쪽 끝**까지 쌓인 비율" 이므로, 그 값을 `bin_edges[1:]`(오른쪽 끝들)에 짝지은 것까지는 정확하다. 문제는 `where='mid'` 다. 이 설정은 계단의 모서리를 **이웃한 두 $x$ 의 중간**에 놓으므로, 값이 오른쪽 끝이 아니라 그보다 **반 칸 왼쪽**에서 이미 올라가 버린다.
 
@@ -831,7 +831,7 @@ $$
 
     누적값이 참 경험적 분포함수와 네 자리까지 같다($0.0900$, $0.5100$, $0.9200$, $1.0000$). 이론값과도 $0.0994$, $0.5200$, $0.9170$, $0.9967$ 로 가깝다. 두 분포함수의 최대 거리는 $D = 0.065$ 이고 $n = 200$ 에서 5% 임계값 $1.36/\sqrt{200} = 0.0962$ 보다 작아($p = 0.35$) **표본이 $N(0,1)$ 에서 나왔다는 데 아무 이상이 없다.**
 
-    그림에서 읽을 것을 정리하면 이렇다. 붉은 곡선과 주황 계단이 전 구간에서 가까이 붙어 있고, 계단이 붉은 곡선보다 **조금씩 위로** 지나간다. 그 체계적인 쏠림이 (2) 의 반 칸 불일치이지 표본의 성질이 아니다. 히스토그램 쪽은 $0$ 근처가 가장 높고 양 끝으로 갈수록 낮아지지만, $1.4$ 와 $1.7$ 근처에 같은 높이의 막대가 둘 나란히 서는 등 곳곳이 울퉁불퉁하다. **$200$ 개로는 밀도의 모양을 이 정도까지밖에 볼 수 없다.**
+    그림에서 읽을 것을 정리하면 이렇다. 붉은 곡선과 주황 계단이 전 구간에서 가까이 붙어 있고, 계단이 붉은 곡선보다 **조금씩 위로** 지나간다. 그 체계적인 쏠림이 (2) 의 반 칸 불일치이지 표본의 성질이 아니다. 히스토그램 쪽은 $0$ 근처가 가장 높고 양 끝으로 갈수록 낮아지지만, $1$ 언저리와 $1.5$ 언저리의 막대가 같은 높이($0.17$)인데 그 사이 막대는 절반에도 못 미치는($0.07$) 등 곳곳이 울퉁불퉁하다. **$200$ 개로는 밀도의 모양을 이 정도까지밖에 볼 수 없다.**
 
     마지막으로 이 그림이 **보여 주지 않는 것**이 있다. 분포함수는 구간 폭을 고르지 않아도 그릴 수 있는데(관측값마다 $1/n$ 씩 올리면 된다) 여기서는 히스토그램의 칸을 그대로 물려받아 $20$ 계단으로 거칠어졌다. 참 경험적 분포함수는 $200$ 계단이다. **밀도 추정은 칸 나누기가 필요하지만 분포함수 추정은 필요하지 않다**는 차이가 이 그림에서는 가려져 있다.
 

diff --git a/docs/ch03/limits/clt.md b/docs/ch03/limits/clt.md
@@ -720,7 +720,7 @@ $n/N$이 작으면 수정계수가 1에 가까워 무시할 수 있다.
 **독립이 깨지는 더 흔한 경우는 시계열이다.** 자기상관이 강한 자료에서는 관측 $n$개가 독립인 $n$개만큼의 정보를 주지 못한다. **유효 표본크기**가 $n$보다 작아지므로 표준오차가 $\sigma/\sqrt n$보다 크고, 정규근사도 그만큼 늦게 도착한다. 이 보정은 5.3절 [표준오차](../../ch05/applications/standard_error.md), 10.5절 [관측의 독립성 확인](../../ch10/assumptions/independence.md), 13.6절 [독립성](../../ch13/assumptions/checking_independence.md)에서 다룬다.
 
 !!! warning "$n \ge 30$을 규칙으로 믿지 말 것"
-    왜도가 심하면 $n = 30$은 턱없이 부족하다. 왜도가 2인 지수분포에서 95% 신뢰구간의 실제 포함확률은 $n = 30$에서 $0.927$이고 $n = 100$에서도 $0.939$에 그친다. 8.2절 [μ의 신뢰구간](../../ch08/one_sample_intervals/ci_mu.md) 연습문제 20·22 가 이런 포함률을 지수·로그정규 모집단에서 잰다.
+    왜도가 심하면 $n = 30$은 턱없이 부족하다. 왜도가 2인 지수분포에서 95% $t$ 신뢰구간의 실제 포함확률은 $n = 30$에서 $0.927$이고 $n = 100$에서도 $0.942$에 그친다(모의실험 $40$ 만 번으로 잰 값이다). 8.2절 [μ의 신뢰구간](../../ch08/one_sample_intervals/ci_mu.md) 연습문제 20 이 같은 포함률을 지수 모집단의 $n = 10$ 에서, 연습문제 22 가 로그정규 모집단에서 잰다.
 
     반대로 모집단이 이미 정규분포라면 $n = 1$에서도 표본평균이 **정확히** 정규분포다. 근사가 아니라 등식이다.
 
@@ -1561,13 +1561,13 @@ $\sqrt n(\bar X_n-\mu)\xrightarrow{d}N(0,\sigma^2)$이라고 해서 그 **분산
 
     **꼬리가 두꺼운 경우의 행동:** $\alpha < 2$인 **안정분포** $S_\alpha(\sigma, \beta)$의 흡인 영역에 있는 분포는 거듭제곱 법칙 꼬리 $P(|X| > x) \sim x^{-\alpha}$를 갖는다. $\alpha \le 2$이면 분산이 무한하고 $\alpha \le 1$이면 평균이 무한하다.
 
-    **알파–안정 중심극한정리:** 꼬리 지수가 $0 < \alpha \le 2$인 i.i.d. $X_i$에 대해 정규화된 합
+    **알파–안정 중심극한정리:** 꼬리 지수가 $0 < \alpha < 2$인 i.i.d. $X_i$에 대해 정규화된 합
 
     $$
     \frac{S_n - n a_n}{n^{1/\alpha}} \xrightarrow{d} S_\alpha(\sigma, \beta)
     $$
 
-    이 $\alpha$-안정분포로 수렴한다. 정규화가 $\sqrt n$이 아니라 $n^{1/\alpha}$임에 주목하라. $\alpha = 2$이면 가우시안 중심극한정리가 복원되고, $\alpha = 1$이면 코시 극한을 얻으며, $\alpha < 1$이면 평균조차 수렴하지 않는다.
+    이 $\alpha$-안정분포로 수렴한다(엄밀하게는 $n^{1/\alpha}$ 에 천천히 변하는 인수가 곱해질 수 있다). 정규화가 $\sqrt n$이 아니라 $n^{1/\alpha}$임에 주목하라. 분산이 유한하면 $\alpha = 2$ 의 자리, 곧 가우시안 중심극한정리로 돌아가고, $\alpha = 1$이면 코시 극한을 얻으며, $\alpha < 1$이면 평균조차 수렴하지 않는다.
 
     **실무적 함의:** 일별 주식 수익률의 꼬리 지수는 흔히 $\alpha \approx 3$으로 보고된다(이른바 역세제곱 법칙 — 꼬리는 두껍지만 $\alpha > 2$라 분산이 유한하므로 가우시안 중심극한정리가 느리게나마 적용된다). 네트워크 패킷 크기, 파일 크기, 대기 지연은 흔히 $\alpha < 2$여서(진짜로 꼬리가 두꺼워서) 가우시안 기반 신뢰구간이 타당하지 않다. 알맞은 도구는 두꺼운 꼬리를 고려하는 것들이다. 조심스러운 부트스트랩, 분위수 추정량, 알파–안정 모형 등이다.
 

diff --git a/docs/ch03/rv/independence_vs_zero_corr.md b/docs/ch03/rv/independence_vs_zero_corr.md
@@ -793,9 +793,9 @@ $$
     print(f"  참값 (1-Phi(1))^2 = {exact:.6f},  SE = {se:.6f},"
           f"  (관측 - 참값)/SE = {(p_joint - exact) / se:+.3f}")
 
-    # rho = 0.8 이면 곱셈 규칙이 깨진다. 임계값을 0 으로 두면 닫힌 꼴이 나온다.
+    # rho = 0.8 이면 곱셈 규칙이 깨진다. 절단값을 0 으로 두면 닫힌 꼴이 나온다.
     #   P(X>0, Y>0) = 1/4 + arcsin(rho)/(2*pi)
-    print("\n임계값 0 에서의 사분면 확률  P(X>0, Y>0)")
+    print("\n절단값 0 에서의 사분면 확률  P(X>0, Y>0)")
     for name, data, r in [("rho = 0.8", corr_data, rho), ("rho = 0", indep_data, 0.0)]:
         obs = np.mean((data[:, 0] > 0) & (data[:, 1] > 0))
         th = 0.25 + np.arcsin(r) / (2 * np.pi)
@@ -812,7 +812,7 @@ $$
       Independent? True
       참값 (1-Phi(1))^2 = 0.025171,  SE = 0.000495,  (관측 - 참값)/SE = +0.724
 
-    임계값 0 에서의 사분면 확률  P(X>0, Y>0)
+    절단값 0 에서의 사분면 확률  P(X>0, Y>0)
       rho = 0.8:  모의 0.3957   닫힌 꼴 1/4 + arcsin(rho)/2pi = 0.397584   독립이라면 0.25
         rho = 0:  모의 0.2499   닫힌 꼴 1/4 + arcsin(rho)/2pi = 0.250000   독립이라면 0.25
       rho=0.8 은 독립일 때의 1.590 배
@@ -972,7 +972,7 @@ $X$가 대칭이고 $\mathbb{E}[X] = 0$, $\mathbb{E}[X^2] = 1$, $\mathbb{E}[X^3]
 
     **로버스트성을 위한 병용:** 피어슨은 강한 선형 신호를 값싸게 잡아내고, 거리 상관계수는 더 미묘한 비선형 신호를 잡아내지만 계산 비용이 크다. 표준적인 작업 흐름은 다음과 같다. 먼저 피어슨으로 많은 변수 쌍을 훑고, "무상관"으로 보이는 쌍들을 거리 상관계수나 상호정보량으로 다시 살핀다.
 
-    실용적 고려사항: 두 검정 모두 검정력이 $n$에 따라 커진다. $n < 30$이면 상당한 의존성이 있어도 통계적 유의성을 얻기 어렵다. 산점도로 시각화하는 것이 어떤 형식적 검정보다 의존성을 빨리 진단해 주는 경우가 많다.
+    실용적 고려사항: 두 검정 모두 검정력이 $n$에 따라 커진다. $n$ 이 작으면 중간 크기의 의존성도 유의하게 나오기 어렵다. 예컨대 $n = 30$ 에서 $r = 0.3$ 이면 $t \approx 1.66$ 이고 양측 p 값이 약 $0.11$ 이다. 산점도로 시각화하는 것이 어떤 형식적 검정보다 의존성을 빨리 진단해 주는 경우가 많다.
 
 ---
 
@@ -1086,7 +1086,7 @@ $X, Y, Z$에 대해 (가) $X \perp Y$이면서 $Z$가 주어진 조건 아래 $X
     - 항상 $[0, 1]$에 속한다(피어슨의 절댓값과 비슷하지만 언제나 음이 아니다).
     - $\mathrm{dCor} = 0$일 필요충분조건이 독립성이다(피어슨과 달리 완전한 진단이 된다).
 
-    **비용:** 표본크기에 대해 계산복잡도가 $O(n^2)$이며, 피어슨의 $O(n)$과 대비된다. $n < 10^4$인 탐색적 분석에서는 거리 상관계수가 점점 더 권장되는 의존성 측도가 되고 있다.
+    **비용:** 표본크기에 대해 계산복잡도가 $O(n^2)$이며, 피어슨의 $O(n)$과 대비된다. $n = 10^4$ 이면 거리행렬 하나가 원소 $10^8$ 개(배정밀도로 약 $800$ MB)라, 큰 자료에서는 그대로 쓰기 어렵다.
 
 ---
 

diff --git a/docs/ch03/rv/discrete.md b/docs/ch03/rv/discrete.md
@@ -653,7 +653,7 @@ for t, name in [(1.0, "있는 그대로"), (2.0, "조금 더 자신 있게"), (4
 
     **용도:** 드문 사건($p$가 작고 $n$이 클 때)에는 포아송이 이항보다 훨씬 간단하다. 응용: 도시의 하루 교통사고 수, 칩당 결함 수, 분당 통화 수, 유전체당 돌연변이 수.
 
-    경험 법칙: $n \ge 20$, $p \le 0.05$, $np \le 10$일 때 포아송이 잘 맞는다. 그렇지 않으면 이항을 쓰거나, $np \ge 10$이면 정규근사를 쓴다.
+    경험 법칙(기준값은 책마다 조금씩 다르다): $n \ge 20$, $p \le 0.05$, $np \le 10$일 때 포아송이 잘 맞는다. 그렇지 않으면 이항을 쓰거나, $np \ge 10$이면 정규근사를 쓴다.
 
 <div class="drillbox" markdown>
 
@@ -921,7 +921,7 @@ for t, name in [(1.0, "있는 그대로"), (2.0, "조금 더 자신 있게"), (4
 
     **왜 이것이 중요한가.** 2.1절 [자료의 종류](../../ch02/data_types/data_types.md) 연습문제 7에서 본 대로, 계수 자료에 정규 기반 방법을 쓰면 표준오차가 틀린다. 그런데 **포아송을 잘못 쓰는 것도 같은 문제를 일으킨다.** 과산포를 무시하면 표준오차를 과소평가해 신뢰구간이 너무 좁아지고, 유의하지 않은 것이 유의하게 나온다.
 
-    **형식적 검정도 있다.** 카메론–트리베디 과산포 검정이나 이탈도 기반 검정을 쓰지만, **표본이 크면 사소한 이탈도 기각하므로**(2.3절 [왜도와 첨도](../../ch02/shape/skewness_kurtosis.md) 연습문제 6) 분산/평균 비의 **크기**를 함께 보는 것이 실용적이다. $\square$
+    **형식적 검정도 있다.** 카메론–트리베디 과산포 검정이나 이탈도 기반 검정을 쓰지만, **표본이 크면 사소한 이탈도 기각하므로**(14.5절 [표본크기가 검정력에 미치는 영향](../../ch14/limitations/sample_size_power.md)) 분산/평균 비의 **크기**를 함께 보는 것이 실용적이다. $\square$
 
 ---
 
